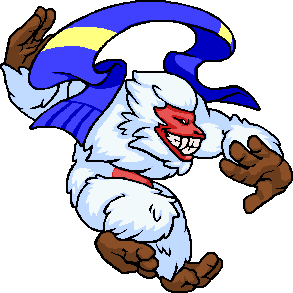
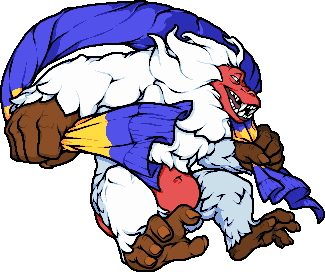
Updated Hodan with unofficial shader data

diff --git a/Characters/db.js b/Characters/db.js
@@ -341,28 +341,26 @@ const db = {
         {
             name : "Hodan",
             ogColor : [
-                167, 231, 231, 1,   // FX
-                231, 84, 84, 1,     // Skin
-                139, 79, 40, 1,     // Pads
-                64, 64, 255, 1,     // Towel Main
-                255, 255, 128, 1,   // Towel Strip
-                242, 249, 251, 1,   // Fur 1
-                192, 219, 255, 1,   // Fur 2
-                161, 181, 255, 1    // Fur 3
+                136, 231, 255, 1,   // Steam
+                231, 84, 84, 1,     // Body
+                139, 79, 40, 1,     // Hands
+                82, 82, 235, 1,     // Towel
+                255, 220, 66, 1,    // Towel Stripe
+                253, 253, 253, 1,   // Fur 1
+                201, 220, 231, 1,   // Fur 2
             ],
             colorRange : [
-                18, 21, 52, 1,      // FX
-                1, 37, 23, 1,       // Skin
-                33, 19, 14, 1,      // Pads
-                1, 27, 26, 1,       // Towel Main
-                1, 1, 1, 1,         // Towel Strip
-                1, 1, 1, 1,         // Fur 1
-                0, 0, 0, 1,         // Fur 2
-                0, 0, 0, 1          // Fur 3
+                11, 32, 10, 1,      // Steam
+                1, 23, 13, 1,       // Body
+                5, 9, 31, 1,        // Hands
+                5, 15, 32, 1,       // Towel
+                23, 7, 5, 1,        // Towel Stripe
+                0, 0, 0, 1,         // Fur 1
+                16, 29, 8, 1,       // Fur 2
             ],
-            partNames : ["FX", "Skin", "Pads", "Towel 1", "Towel 2", "Fur 1", "Fur 2", "Fur 3"],
+            partNames : ["Steam", "Body", "Hands", "Towel", "T. Stripe", "Fur 1", "Fur 2"],
             idleFC : 8,
-            placeholder : "0000-0000-0000-0000-0000-0000-0000-0000-0000-0000-0000-0000-0000"
+            placeholder : "0000-0000-0000-0000-0000-0000-0000-0000-0000-0000-0000"
         },
         {
             name : "Pomme",

diff --git a/Recolors.js b/Recolors.js
@@ -239,6 +239,8 @@ function changeChar(charNum) {
         // do a first paint (ori is the only character that needs an actual recolor)
         if (char.name == "Ori and Sein") {
             manualRecolor(hexDecode("F8F5-FCF8-F5FC-0000-005D-CBF1-FFC8-21A4"));
+        } else if (char.name == "Olympia") {
+            manualRecolor(hexDecode("EC8D-CAEC-8DCA-B880-53E4-8574-F7F3-F9FF-F9F9-367B-8D4A"));
         } else {
             mainRecolor();
         }
